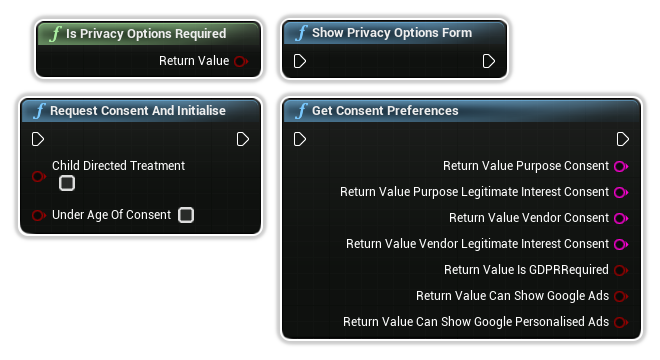
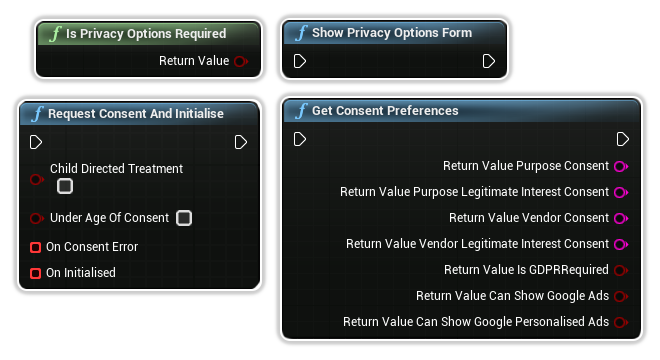
fix: release advanced ads pro update

diff --git a/script.js b/script.js
@@ -79,6 +79,35 @@ if (news) {
       <div class="news-group-item">
           <div class="row">
               <div class="col-auto" style="padding-right: 0">
+                  <img class="news-badge" src="../../../images/Admob/Admob_Plugin_Logo.png">
+              </div>
+              <div class="col" style="padding-left: 10px">
+                  <div class="news-title">Release Notes</div>
+                  <div class="news-sub-title">2024-02-23</div>
+              </div>
+          </div>
+      </div>
+      
+      <div class="news-info">
+          <div class="news-info-title">
+            Advanced Ads Pro Release Notes
+          </div>
+          <div class="news-info-details">
+              <ul>
+                  <li>Update Request Consent and Initialise BP</li>
+                  <li>Add On Consent Error Delegate</li>
+                  <li>Add On Initialised Delegate</li>
+              </ul>
+          </div>
+          <a class="btn-learn-more" href="../../../plugins/advertising/admob/overview.html?utm_source=News">Learn more</a>
+      </div>
+  </div>
+</div>
+<div class="news-card">
+  <div class="news-container">
+      <div class="news-group-item">
+          <div class="row">
+              <div class="col-auto" style="padding-right: 0">
                   <img class="news-badge" src="../../../images/Billing/GooglePlay_Billing_Plugin_Logo.png">
               </div>
               <div class="col" style="padding-left: 10px">
@@ -103,7 +132,7 @@ if (news) {
       </div>
   </div>
 </div>
-<div class="news-card expanded">
+<div class="news-card">
   <div class="news-container">
       <div class="news-group-item">
           <div class="row">
@@ -224,35 +253,6 @@ if (news) {
               </ul>
           </div>
           <a class="btn-learn-more" href="../../../plugins/google-play-services/events/overview.html?utm_source=News">Learn more</a>
-      </div>
-  </div>
-</div>
-<div class="news-card">
-  <div class="news-container">
-      <div class="news-group-item">
-          <div class="row">
-              <div class="col-auto" style="padding-right: 0">
-                  <img class="news-badge" src="../../../images/PlayBaseServices/GooglePlay_BaseServices_Plugin_Logo.png">
-              </div>
-              <div class="col" style="padding-left: 10px">
-                  <div class="news-title">New Unreal Engine Plugin</div>
-                  <div class="news-sub-title">2024-01-19</div>
-              </div>
-          </div>
-      </div>
-      
-      <div class="news-info">
-          <div class="news-info-title">
-              Play Base Services Docs Early Access
-          </div>
-          <div class="news-info-details">
-              <ul>
-                  <li>Review our Play Services Plugin</li>
-                  <li>Provide any feedback before release</li>
-                  <li>Suggestions may be included!</li>
-              </ul>
-          </div>
-          <a class="btn-learn-more" href="../../../plugins/google-play-services/base-services/overview.html?utm_source=News">Learn more</a>
       </div>
   </div>
 </div>

diff --git a/plugins/advertising/admob/privacy_settings.html b/plugins/advertising/admob/privacy_settings.html
@@ -245,13 +245,45 @@
                 <div style="padding-top: 20px">
                     <div class="container" style="margin-left: 0px; padding-left: 0px; position: relative;">
                         <span class="badge badge-primary">2</span>
-                        <div class="info" style="border-bottom-left-radius: 20px;">
+                        <div class="info">
                             <p class="content">
                                 <b>Under Age of Consent</b>
                             </p>
                             <p class="content" style="margin-bottom: 0rem;">
                                 Whether you would like your app to be marked to receive treatment for users in the European Economic Area (EEA) under the age of consent.</br>
                                 <span style="font-weight: 500">Note:</span> If you have marked your user as under the age of consent, they will <span style="font-weight: 500">NOT</span> receive the consent pop-up.
+                            </p>
+                        </div>
+                    </div>
+                </div>
+                <div style="padding-top: 20px">
+                    <div class="container" style="margin-left: 0px; padding-left: 0px; position: relative;">
+                        <span class="badge badge-primary">3</span>
+                        <div class="info">
+                            <p class="content">
+                                <b>On Consent Error</b>
+                            </p>
+                            <p class="content">
+                                An <a href="enumerations.html">Form Error Code</a> along with a message describing the consent failure.
+                            </p>
+                            <p class="content" style="margin-bottom: 0rem;">
+                                You can simply click and drag off this pin to create a custom event.
+                            </p>
+                        </div>
+                    </div>
+                </div>
+                <div style="padding-top: 20px">
+                    <div class="container" style="margin-left: 0px; padding-left: 0px; position: relative;">
+                        <span class="badge badge-primary">4</span>
+                        <div class="info" style="border-bottom-left-radius: 20px;">
+                            <p class="content">
+                                <b>On Initialised</b>
+                            </p>
+                            <p class="content">
+                                A parameterless delegate which will be called once Admob has succesfully initialised.
+                            </p>
+                            <p class="content" style="margin-bottom: 0rem;">
+                                You can simply click and drag off this pin to create a custom event.
                             </p>
                         </div>
                     </div>

diff --git a/plugins/advertising/admob/enumerations.html b/plugins/advertising/admob/enumerations.html
@@ -463,6 +463,54 @@
                         </tbody>
                     </table>
                 </div>
+
+                <div class="container"
+                    style="margin-left: 0px; padding-left: 0px; margin-bottom: 5px; margin-top: 40px; margin-right: 20px; border-top-left-radius: 20px;">
+                    <h1 class="list-group-item">EFormErrorCode</h1>
+                </div>
+                <div class="container" style="margin-left: 0px; padding-top: 5px; padding-left: 0px; overflow-x: auto; border-bottom-left-radius: 20px;">
+                    <table class="table table-striped table-bordered table-documentation"
+                        style="margin-bottom: 0; box-shadow: 1px 1px 3px #ccc;">
+                        <thead class="thead-dark">
+                            <tr>
+                                <th>Name</th>
+                                <th>Description</th>
+                            </tr>
+                        </thead>
+                        <tbody>
+                            <tr>
+                                <td>UNKNOWN_ERROR</td>
+                                <td>
+                                    When the error is unkown.
+                                </td>
+                            </tr>
+                            <tr>
+                                <td>INTERNAL_ERROR</td>
+                                <td>
+                                    When an internal error has occurred within Admob.
+                                </td>
+                            </tr>
+                            <tr>
+                                <td>INTERNET_ERROR</td>
+                                <td>
+                                    When there was an error loading data from the network.
+                                </td>
+                            </tr>
+                            <tr>
+                                <td>INVALID_OPERATION</td>
+                                <td>
+                                    When an Invalid operation has occurred.
+                                </td>
+                            </tr>
+                            <tr>
+                                <td>TIME_OUT</td>
+                                <td>
+                                    When the operation has timed out.
+                                </td>
+                            </tr>
+                        </tbody>
+                    </table>
+                </div>
                 
                 <div style="margin-bottom: 500px">
                 </div>

diff --git a/plugins/release/notes/advanced_ads_pro.html b/plugins/release/notes/advanced_ads_pro.html
@@ -120,6 +120,39 @@
                                         <img class="news-badge" src="../../../images/Admob/Admob_Plugin_Logo.png">
                                     </div>
                                     <div class="col-9" style="padding-left: 10px">
+                                        <div class="news-title">Stability Release</div>
+                                        <div class="news-sub-title">2024-02-23</div>
+                                    </div>
+                                    <div class="col text-right" style="padding-left: 10px">
+                                        <div class="news-title">v1.0.1</div>
+                                    </div>
+                                </div>
+                            </div>
+                    
+                            <div class="news-info">
+                                <div class="row">
+                                    <div class="col-auto" style="display:flex; align-items: center; margin: 0">
+                                        <div class="news-info-details" style="font-weight: 500">
+                                            <ul>
+                                                <li>Update Request Consent and Initialise BP</li>
+                                                <li>Add On Consent Error Delegate</li>
+                                                <li>Add On Initialised Delegate</li>
+                                            </ul>
+                                        </div>
+                                    </div>
+                                </div>
+                            </div>
+                        </div>
+                    </div>
+                    <div style="padding: 10px"></div>
+                    <div class="news-card expanded">
+                        <div class="news-container">
+                            <div class="news-group-item">
+                                <div class="row">
+                                    <div class="col-auto" style="padding-right: 0">
+                                        <img class="news-badge" src="../../../images/Admob/Admob_Plugin_Logo.png">
+                                    </div>
+                                    <div class="col-9" style="padding-left: 10px">
                                         <div class="news-title">Initial Release</div>
                                         <div class="news-sub-title">2024-02-02</div>
                                     </div>
